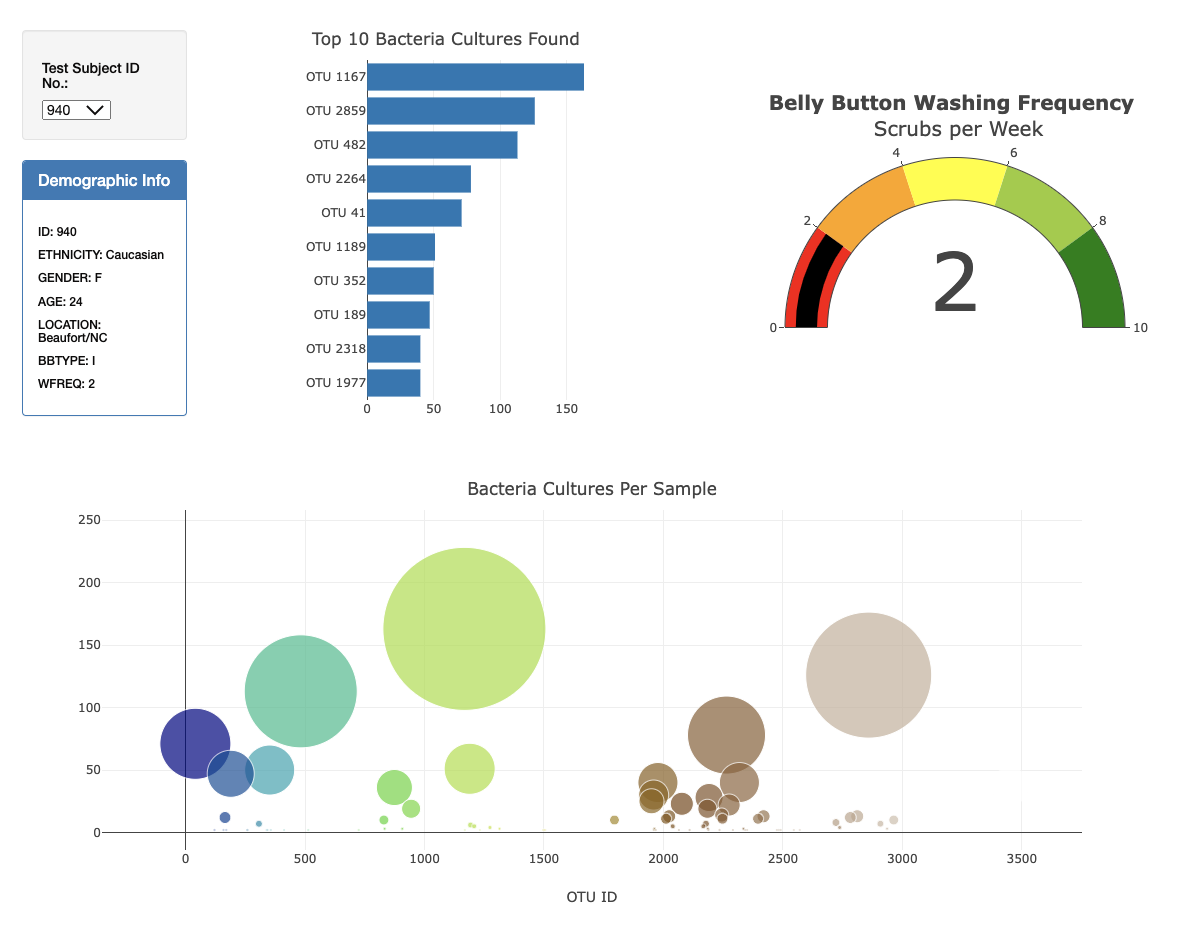
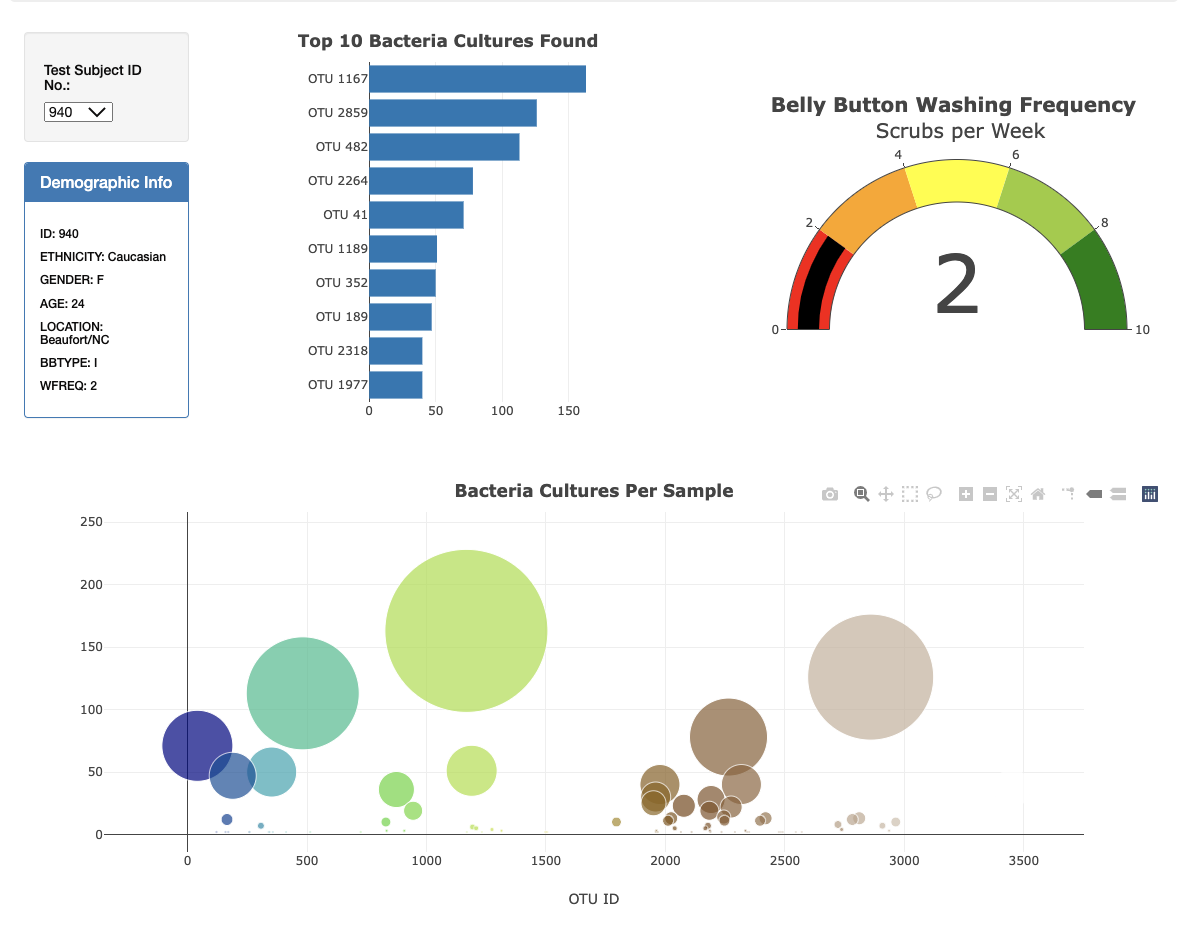
new pic

diff --git a/chart.js b/chart.js
@@ -95,7 +95,7 @@ function buildCharts(sample) {
 
     // 9. Create the layout for the bar chart. 
     var barLayout = {
-      title: "Top 10 Bacteria Cultures Found",
+      title: "<b>Top 10 Bacteria Cultures Found</b>",
       margin: { t: 30, l: 150 }
 
     };
@@ -117,7 +117,7 @@ function buildCharts(sample) {
 
     // 2. Create the layout for the bubble chart.
     var bubbleLayout = {
-      title: "Bacteria Cultures Per Sample",
+      title: "<b>Bacteria Cultures Per Sample</b>",
       margin: {t: 0},
       hovermode: "closest",
       xaxis: {title:"OTU ID"},

diff --git a/indexBelly.html b/indexBelly.html
@@ -15,8 +15,6 @@
 
 <body>
   <div class="wrapper">
-    <!-- Navbar -->
-    <nav class="navbar navbar-dark bg-dark navbar-expand-lg">
     <a class="navbar-brand" href="indexBelly.html">Visualize the Bacterial Data</a>
     </nav>
   
